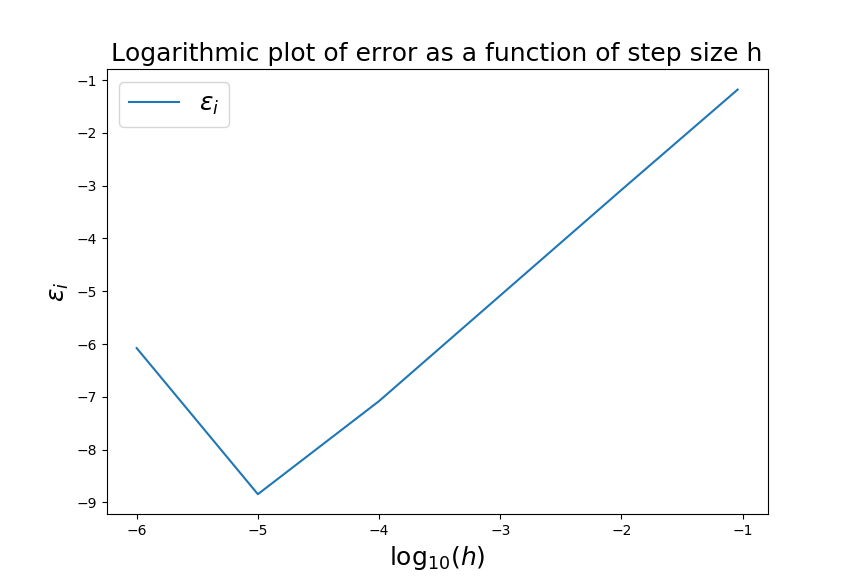
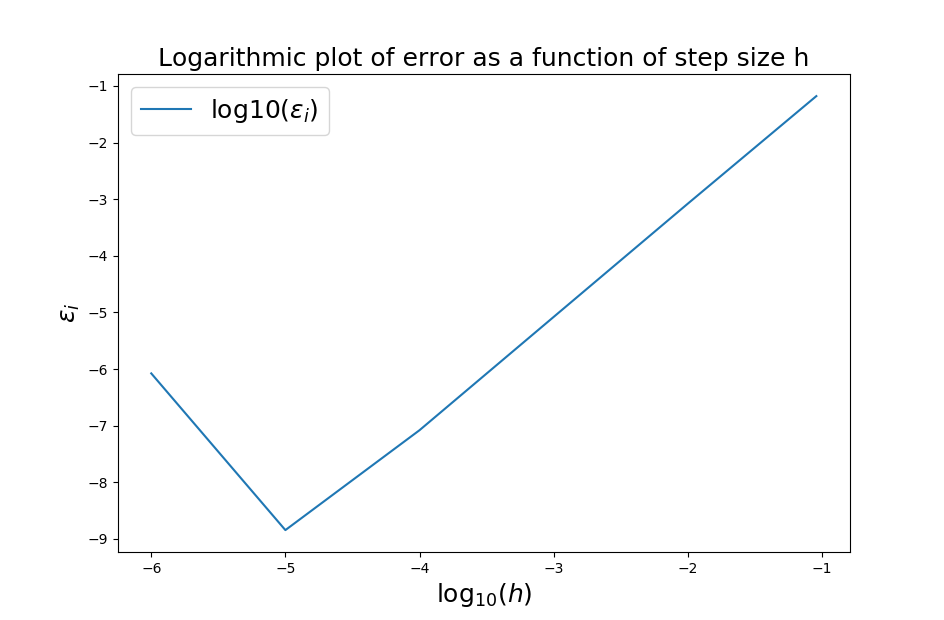
Updated 1d plot

diff --git a/Project1/pplot1d.py b/Project1/pplot1d.py
@@ -15,5 +15,5 @@ plt.figure()
 plt.title('Logarithmic plot of error as a function of step size h',size=18)
 plt.plot(log10h,eps)
 plt.xlabel('$\\log_{10}(h)$', size=18);plt.ylabel('$\\epsilon_i$',size=18)
-plt.legend(['$\\epsilon_i$'],prop={'size': 18})
+plt.legend(['$\\log10(\\epsilon_i)$'],prop={'size': 18})
 plt.show()
